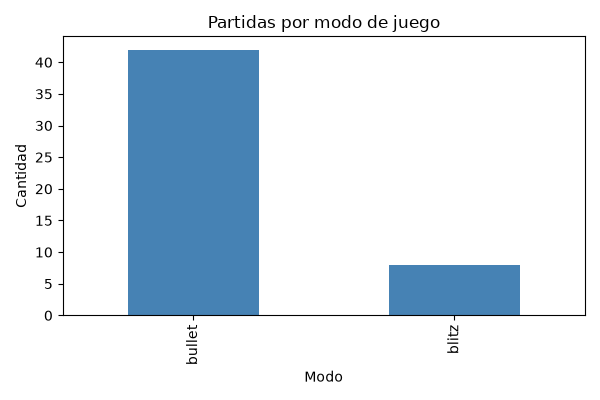
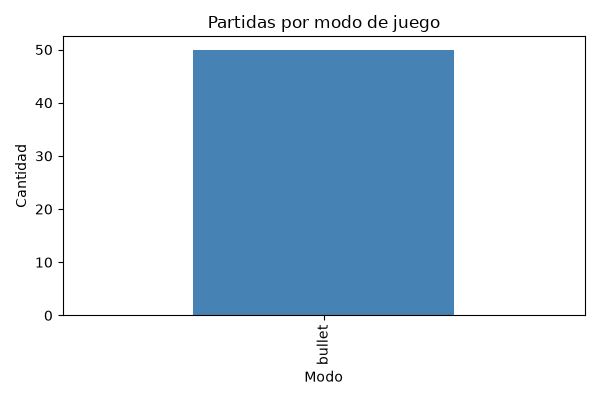
Limpieza de repo: gitignore actualizado, requirements de lichess, evidencia de torneos, archivos debug eliminados

diff --git a/lichess/README.md b/lichess/README.md
@@ -1,5 +1,25 @@
 # Lichess API — Análisis y Automatización
 
+## Requisitos
+
+```bash
+pip install -r requirements.txt
+```
+
+### Configurar el token de Lichess
+
+Ambas partes necesitan la variable de entorno `LICHESS_TOKEN`. Generar un
+token personal en https://lichess.org/account/oauth/token con los scopes
+`game:read` (Parte A) y `tournament:write` (Parte B).
+
+En Windows (PowerShell), antes de correr cada script:
+```powershell
+$env:LICHESS_TOKEN = "tu_token_aqui"
+```
+(Esto solo dura mientras esa ventana de PowerShell esté abierta — hay que
+volver a ponerlo si cierras la terminal.)
+
+
 ## Parte A — Análisis de partidas (`lichess_analysis.py`)
 
 Descarga las partidas de un usuario, genera estadísticas y visualizaciones.
@@ -13,7 +33,6 @@ Requiere un token personal de Lichess con permiso `game:read`, configurado como 
 
 ### Ejecución
 ```bash
-pip install pandas matplotlib requests
 python lichess_analysis.py
 ```
 
@@ -42,5 +61,9 @@ python lichess_tournaments.py
 - Calcula automáticamente la próxima fecha/hora futura para cada torneo (salta las que ya pasaron esta semana).
 - Maneja errores de API sin detener el resto del calendario.
 - Imprime un resumen final: total procesados, exitosos y con error.
+
+### Evidencia
+`output/torneos_log.txt` — salida completa de una corrida en modo
+DRY-RUN, con los 3 torneos simulados y el resumen final (0 errores).
 
 **Nota:** dejar `DRY_RUN = True` por defecto para evitar crear torneos duplicados accidentalmente. Cambiar a `False` solo para la demo/evidencia.
